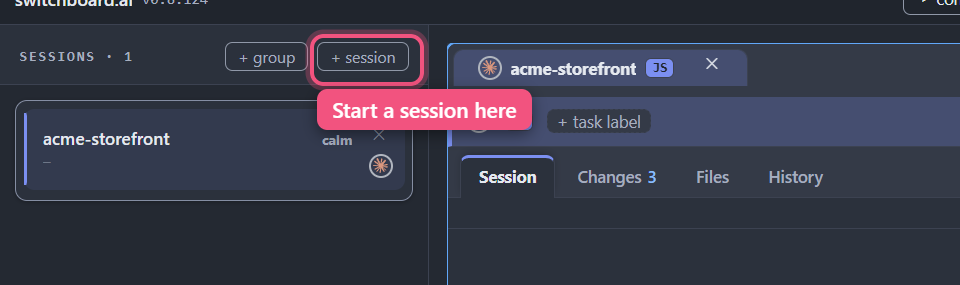
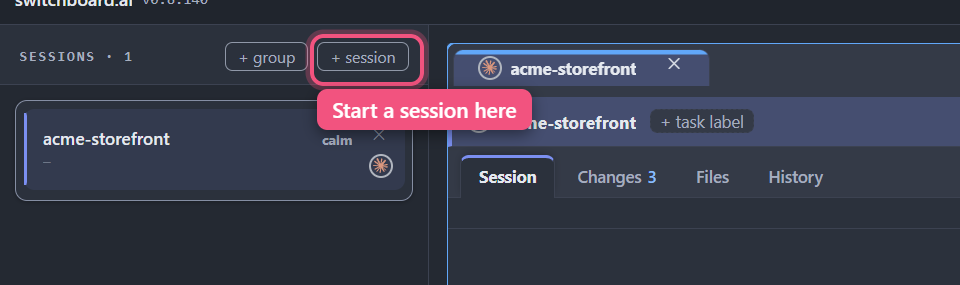
Manual pictures: a busy session and the sessions strip; core pictures re-shot on 0.8.140 (issue 965)

diff --git a/e2e/manual-shots.spec.ts b/e2e/manual-shots.spec.ts
@@ -27,6 +27,7 @@ import {
   onTestDisplay,
   openEventsDrawer,
   openSettings,
+  openSettingsTab,
   registerTempDir,
   setTheme,
   streamPrompter,
@@ -310,6 +311,20 @@ async function annotate(w: Page, callouts: Callout[]): Promise<void> {
 
 async function clearAnnotations(w: Page): Promise<void> {
   await w.evaluate(() => document.getElementById('manual-shot-annotations')?.remove());
+}
+
+/**
+ * `!hang` is the fake CLI's word for "start a turn and never finish it", the
+ * only way to hold a session WORKING for a picture. It shows as the prompt and
+ * the task label, so it is reworded on screen, the way `tidy` rewords hashes.
+ */
+async function renameHang(w: Page): Promise<void> {
+  await w.evaluate(() => {
+    const walker = document.createTreeWalker(document.body, NodeFilter.SHOW_TEXT);
+    for (let n = walker.nextNode(); n; n = walker.nextNode()) {
+      if (n.nodeValue?.trim() === '!hang') n.nodeValue = n.nodeValue.replace('!hang', 'Rewrite the install guide');
+    }
+  });
 }
 
 /** One picture: annotate, shoot (the whole window, or a region), clean up. */
@@ -596,6 +611,46 @@ test.describe('manual screenshots (#1082)', () => {
       { target: w.locator('.dv-tab', { hasText: 'billing-api' }), label: 'The session you are looking at', side: 'right' },
       { target: composer, label: 'Talk to it here', side: 'top', alignEnd: true },
     ]);
+
+    // ── a busy workspace, and the same sessions listed across the top (#965) ──
+    // A third session, held WORKING by the fake CLI's `!hang` (a turn that is
+    // started and never finished), beside the two that are waiting on you.
+    const docs = plainProject(parent, 'docs-site', '# Docs site\n\nThe public documentation.\n');
+    await a.app.evaluate(({ dialog }, d) => {
+      dialog.showOpenDialog = () => Promise.resolve({ canceled: false, filePaths: [d] });
+    }, docs);
+    await newSession.click();
+    await expect(w.getByText('docs-site').first()).toBeVisible({ timeout: 25_000 });
+    await streamPrompter(a)('docs-site', '!hang');
+    const workingRow = w.locator('nav .rail-row[data-session-status="working"]').first();
+    await expect(workingRow).toBeVisible({ timeout: 30_000 });
+    await w.waitForTimeout(800);
+    await tidy(w, parent);
+    await renameHang(w);
+    await shot(w, 'busy-session', [
+      { target: workingRow, label: 'Working right now', side: 'right' },
+      { target: approvalWord, label: 'Waiting for your approval', side: 'right' },
+      { target: waitingWord, label: 'Finished, waiting for you', side: 'right' },
+    ]);
+
+    // the same three, across the top: Settings ▸ Appearance ▸ sessions on top
+    const settings = await openSettingsTab(w, 'appearance');
+    await settings.locator('[data-sessions-placement="top"]').check();
+    await closeSettings(w);
+    const strip = w.getByTestId('sessions-strip');
+    await expect(strip).toBeVisible({ timeout: 10_000 });
+    await w.waitForTimeout(500);
+    await tidy(w, parent);
+    await renameHang(w);
+    const stripBox = await strip.boundingBox();
+    await shot(
+      w,
+      'sessions-strip',
+      [{ target: strip, label: 'Every session, one line across the top', side: 'bottom' }],
+      stripBox
+        ? { x: 0, y: Math.max(0, stripBox.y - 8), width: WINDOW.width, height: Math.min(260, stripBox.height + 120) }
+        : undefined
+    );
   });
   // ── five things that shipped without a picture (0.8.117, 0.8.118) ──────────
   //
